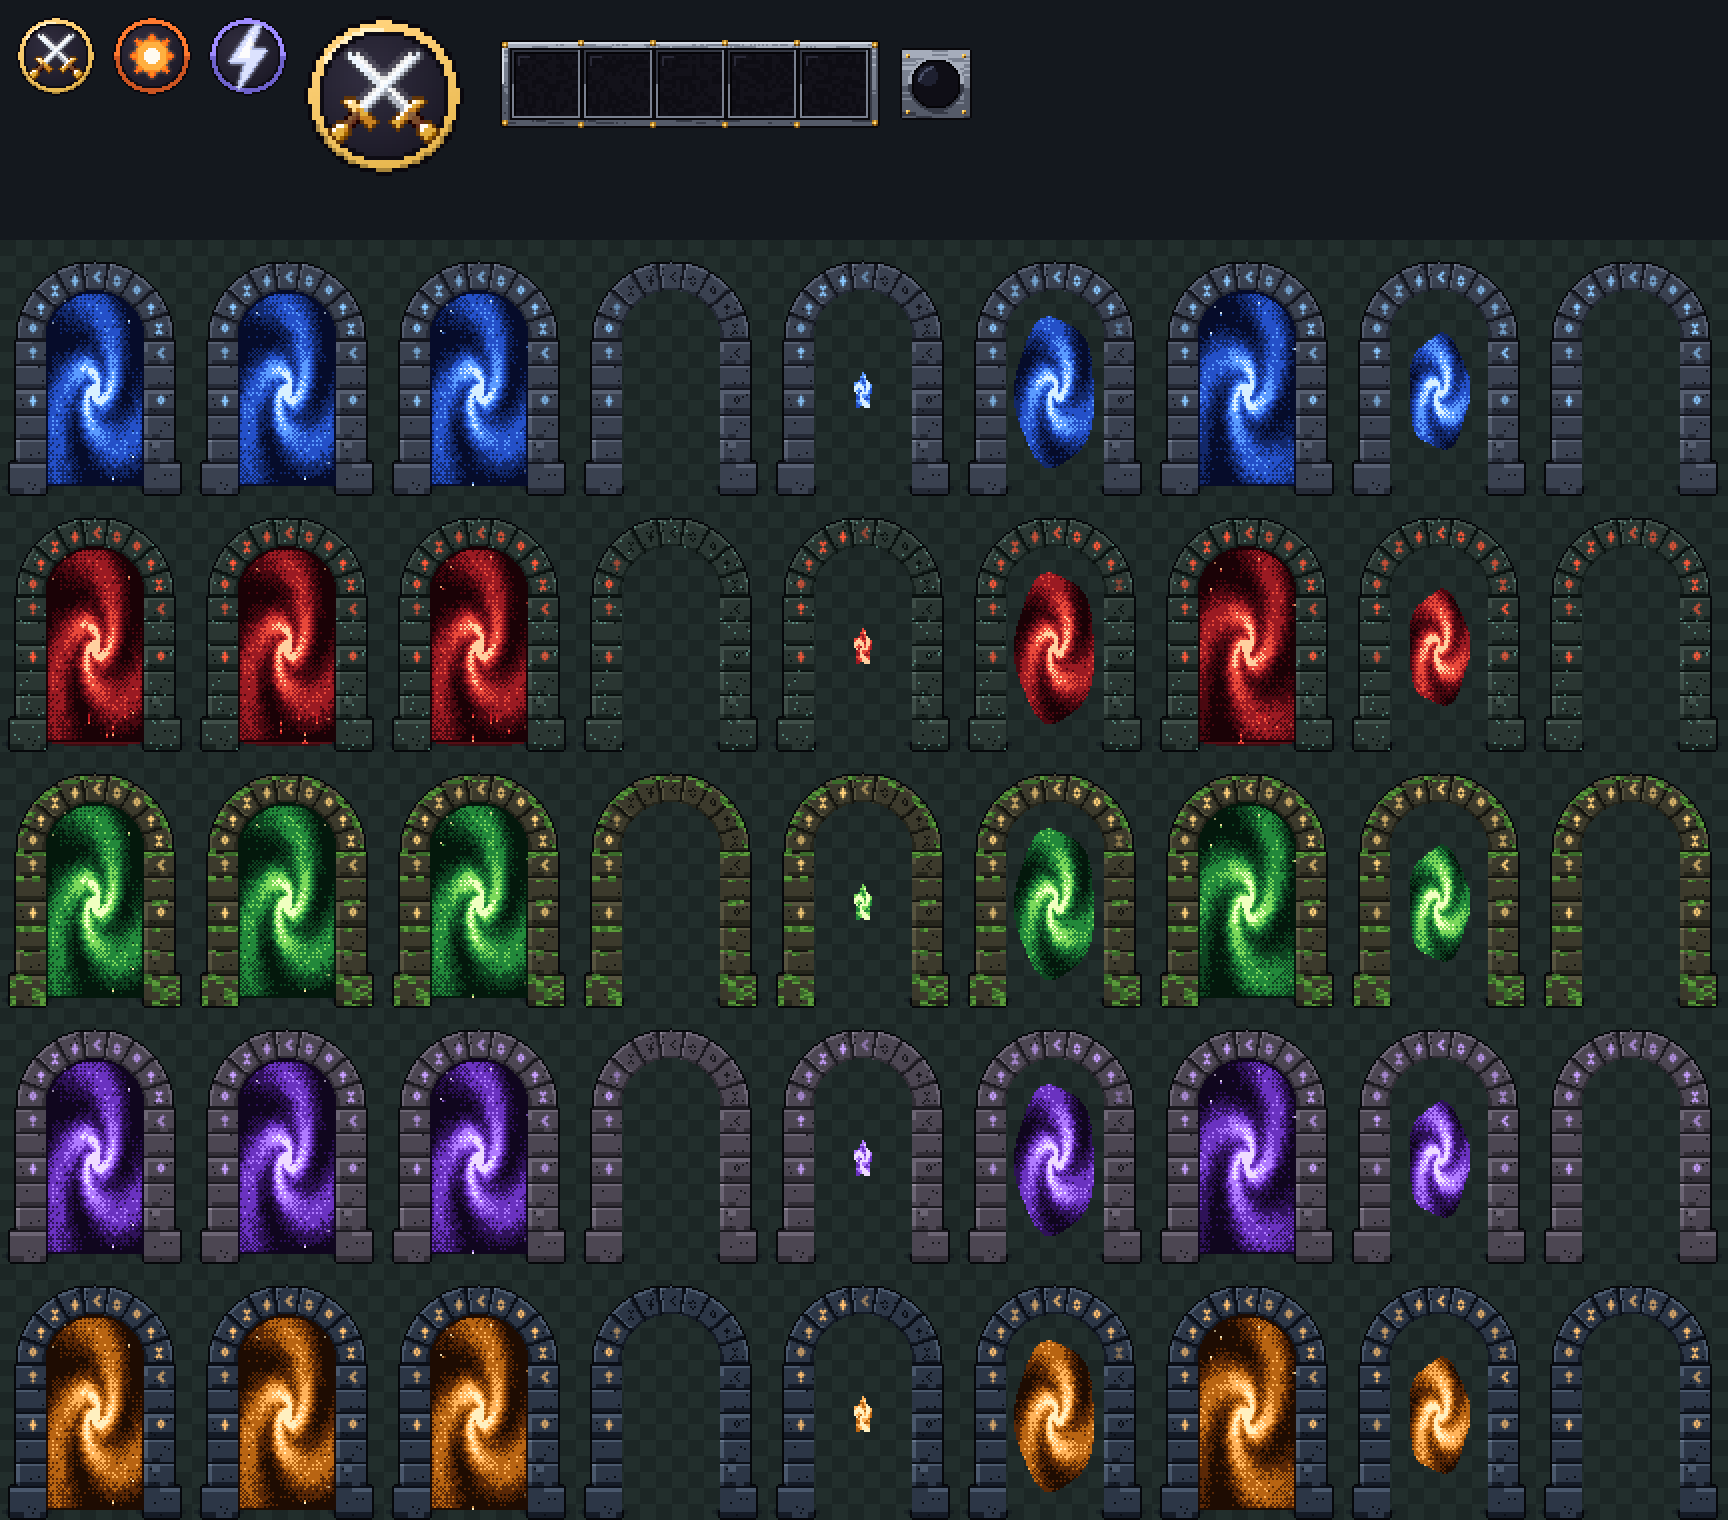
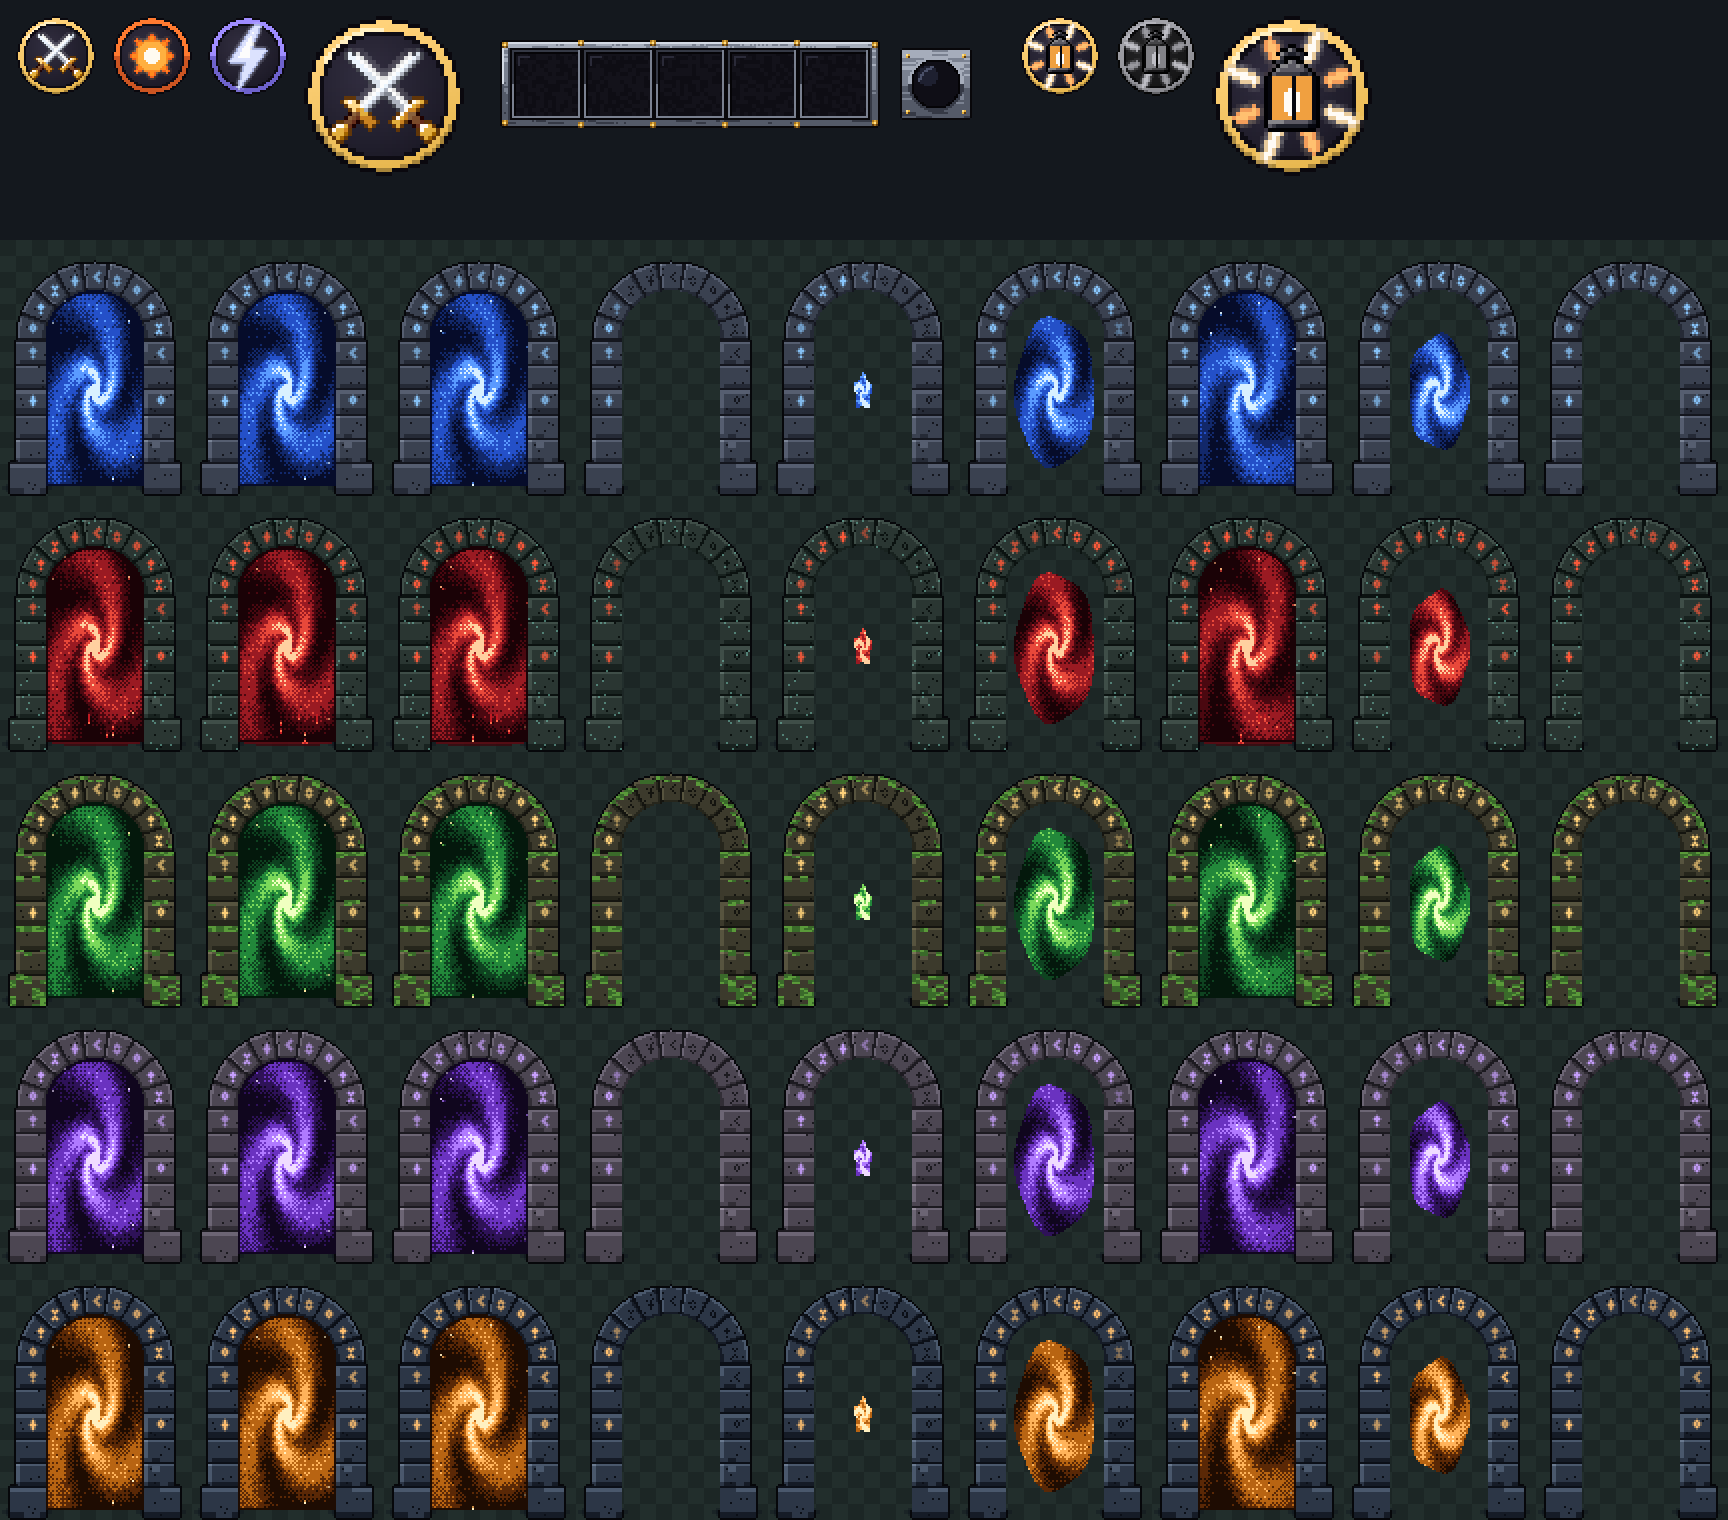
#41: ícono de habilidad del farol (Thor alza el farol) y su versión de recarga en gris
Claude-Session: https://claude.ai/code/session_01CzS8aAP77ry69EfvgCR5Uw

Changed region(s): [[0.5938, 0.0, 0.8125, 0.1237]]

diff --git a/src/engine/ui/icons2.ts b/src/engine/ui/icons2.ts
@@ -179,6 +179,40 @@ export function skillIcons(): UiSprite[] {
   const out = list.map(([name, rim, draw]) => ({ name, frames: [skill(rim, draw)] }));
   // #38: el ataque básico (el mismo para todas las heroínas): dos espadas cruzadas claras, aro dorado en degradé
   out.push({ name: 'ataque', frames: [skill('#e8b850', crossedSwords, '#ffd27a')] });
+  // #41: alzar el farol de Thor (el botón de Alana), y el mismo en gris para la recarga
+  const farol = skill('#e8b850', raisedLantern, '#ffd27a');
+  out.push({ name: 'farol', frames: [farol] });
+  out.push({ name: 'farol_recarga', frames: [grayed(farol)] });
+  return out;
+}
+
+/** El farol de Thor alzado: rayos ámbar alrededor, vidrio que brilla, jaula de hierro, el asa arriba. */
+function raisedLantern(c: IconCanvas) {
+  // los rayos: ocho, largos y cortos alternados, de ámbar a casi blanco
+  for (let k = 0; k < 8; k++) {
+    const a = (k / 8) * Math.PI * 2 - Math.PI / 2 + Math.PI / 8, L = k % 2 ? 4 : 6.5, w = 0.13, R = 10;
+    const cx = 20, cy = 21;
+    void w;
+    c.line([cx + Math.cos(a) * R, cy + Math.sin(a) * R], [cx + Math.cos(a) * (R + L), cy + Math.sin(a) * (R + L)], 1.3, glowMat(k % 2 ? '#ffc070' : '#fff0c0'), { tone: k % 2 ? 3 : 4 });
+  }
+  const iron = metalMat('#3a3a44');
+  // el asa (lo que muerde Thor) y el techito
+  c.ring([20, 12.5], 3.6, 3.2, 1.2, iron, {}, 180, 360);
+  c.poly([[14, 16], [26, 16], [20, 11.5]], iron, { bias: 1 });
+  // la jaula con el vidrio prendido y la llama
+  c.poly([[14.5, 16], [25.5, 16], [25, 27], [15, 27]], glowMat('#f0a040'), { tone: 3 });
+  c.ellipse([20, 22.5], 2.2, 3.6, glowMat('#fff0c0'), { tone: 5 });
+  for (const x of [14.6, 20, 25.4]) c.px1([x, 16], [x, 27], iron, { tone: 1 });
+  c.poly([[13.5, 27], [26.5, 27], [26, 29.5], [14, 29.5]], iron);
+}
+
+/** El ícono apagado (recarga): en grises, más oscuro. */
+function grayed(r: Raster): Raster {
+  const out = createRaster(r.w, r.h);
+  for (let i = 0; i < r.w * r.h; i++) {
+    const k = i * 4, l = (r.data[k] * 0.3 + r.data[k + 1] * 0.59 + r.data[k + 2] * 0.11) * 0.75;
+    out.data[k] = out.data[k + 1] = Math.round(l); out.data[k + 2] = Math.round(l * 1.04); out.data[k + 3] = r.data[k + 3];
+  }
   return out;
 }
 

diff --git a/scripts/lamina-mundo4.ts b/scripts/lamina-mundo4.ts
@@ -2,8 +2,8 @@
  * Láminas de revisión del Mundo 4 (encargo F12 de GG Abyss) en docs/entregas/:
  *   npx tsx scripts/lamina-mundo4.ts [pendientes|farol|mapa|enemigos|jefe|todo]
  *
- * - pendientes.png: el ícono de ataque (x1 y x2 al lado de nova_fuego), el cinturón, el casillero de poción y los
- *   portales de cada mundo (girar, abrir y cerrar).
+ * - pendientes.png: el ícono de ataque (x1 y x2 al lado de nova_fuego), el cinturón, el casillero de poción, el
+ *   ícono del farol (prendido, recargando y x2) y los portales de cada mundo (girar, abrir y cerrar).
  * - thor_farol.png: Thor con el farol en las 8 direcciones caminando (todos los cuadros), alzando el farol (howl) y
  *   con el farol apagado.
  * - mundo4_mapa.png: el mapa entero chiquito, con las entidades.
@@ -39,6 +39,7 @@ async function pendientes() {
   const r = fill(createRaster(W, H), [20, 24, 30]);
   over(r, ic.get('ataque')!, 8, 8); over(r, ic.get('nova_fuego')!, 56, 8); over(r, ic.get('rayo_canalizado')!, 104, 8); over(r, up(ic.get('ataque')!, 2), 152, 8);
   over(r, ui.get('cinturon')!, 250, 20); over(r, ui.get('casillero_pocion')!, 450, 24);
+  over(r, ic.get('farol')!, 510, 8); over(r, ic.get('farol_recarga')!, 558, 8); over(r, up(ic.get('farol')!, 2), 606, 8);
   P.forEach((p, i) => {
     const y = 120 + i * 128;
     const frames = [p.anims.girar.frames[0], p.anims.girar.frames[4], p.anims.girar.frames[8], ...[1, 3, 5, 7].map((f) => p.anims.abrir.frames[f]), p.anims.cerrar.frames[2], p.anims.arco.frames[0]];

diff --git a/src/engine/__tests__/world2.test.ts b/src/engine/__tests__/world2.test.ts
@@ -268,7 +268,7 @@ describe('taller entrega 2', () => {
     let pink = 0; for (let i = 0; i < nat.data.length; i += 4) if (nat.data[i] > 200 && nat.data[i + 1] < 160 && nat.data[i + 2] > 150) pink++;
     expect(pink).toBeGreaterThan(5);
     const sk = skillIcons();
-    expect(sk.map((s) => s.name)).toEqual(['lluvia_flechas', 'esquiva', 'llamar_thor', 'curar', 'torbellino', 'bloqueo', 'nova_fuego', 'rayo_canalizado', 'ataque']);
+    expect(sk.map((s) => s.name)).toEqual(['lluvia_flechas', 'esquiva', 'llamar_thor', 'curar', 'torbellino', 'bloqueo', 'nova_fuego', 'rayo_canalizado', 'ataque', 'farol', 'farol_recarga']);
     for (const s of sk) expect([s.frames[0].w, s.frames[0].h]).toEqual([40, 40]);
   });
 });
